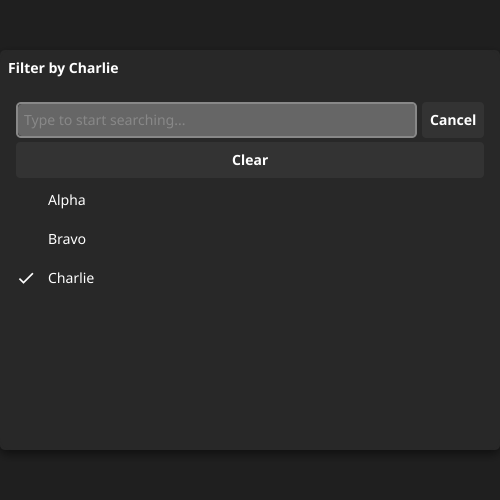
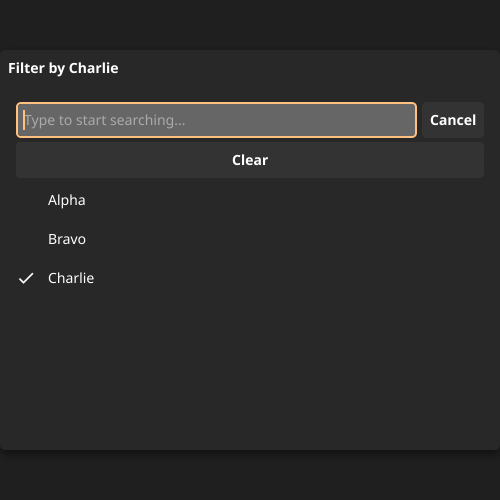
feat: allow disabling clear feature for FilterSelect

Changed region(s): [[0.03, 0.18, 0.84, 0.3]]

diff --git a/widget/filterchipselect.go b/widget/filterchipselect.go
@@ -17,6 +17,9 @@ import (
 type FilterChipSelect struct {
 	chip
 
+	// Whether to disable the clear choices feature.
+	ClearDisabled bool
+
 	// The label shown for clearing a selection.
 	ClearLabel string
 
@@ -115,7 +118,7 @@ func (w *FilterChipSelect) SetOptions(options []string) {
 
 func (w *FilterChipSelect) showDropDownMenu() {
 	items := make([]*fyne.MenuItem, 0)
-	if w.text != "" && w.Selected != "" {
+	if w.text != "" && w.Selected != "" && !w.ClearDisabled {
 		it := fyne.NewMenuItem(w.ClearLabel, func() {
 			w.SetSelected("")
 		})
@@ -217,16 +220,16 @@ func (w *FilterChipSelect) showSearchDialog(window fyne.Window) {
 
 	entry := widget.NewEntry()
 	entry.PlaceHolder = "Type to start searching..."
-	clearButton := NewIconButton(theme.CancelIcon(), func() {
+	clearEntryButton := NewIconButton(theme.CancelIcon(), func() {
 		entry.SetText("")
 	})
-	clearButton.Hide()
-	entry.ActionItem = clearButton
+	clearEntryButton.Hide()
+	entry.ActionItem = clearEntryButton
 	entry.OnChanged = func(search string) {
 		if search != "" {
-			clearButton.Show()
+			clearEntryButton.Show()
 		} else {
-			clearButton.Hide()
+			clearEntryButton.Hide()
 		}
 		if len(search) < 2 {
 			itemsFiltered = slices.Clone(baseItems)
@@ -242,15 +245,14 @@ func (w *FilterChipSelect) showSearchDialog(window fyne.Window) {
 		}
 		list.Refresh()
 	}
-	clear := widget.NewButton("Clear", func() {
+	clearChoicesButton := widget.NewButton(w.ClearLabel, func() {
 		w.SetSelected("")
 		d.Hide()
 	})
-	if w.Selected != "" {
-		entry.Disable()
-		clear.Show()
+	if w.Selected != "" && !w.ClearDisabled {
+		clearChoicesButton.Show()
 	} else {
-		clear.Hide()
+		clearChoicesButton.Hide()
 	}
 	empty := widget.NewLabel("No entries")
 	empty.Importance = widget.LowImportance
@@ -263,7 +265,7 @@ func (w *FilterChipSelect) showSearchDialog(window fyne.Window) {
 	c := container.NewBorder(
 		container.NewBorder(
 			nil,
-			clear,
+			clearChoicesButton,
 			nil,
 			widget.NewButton("Cancel", func() {
 				d.Hide()
